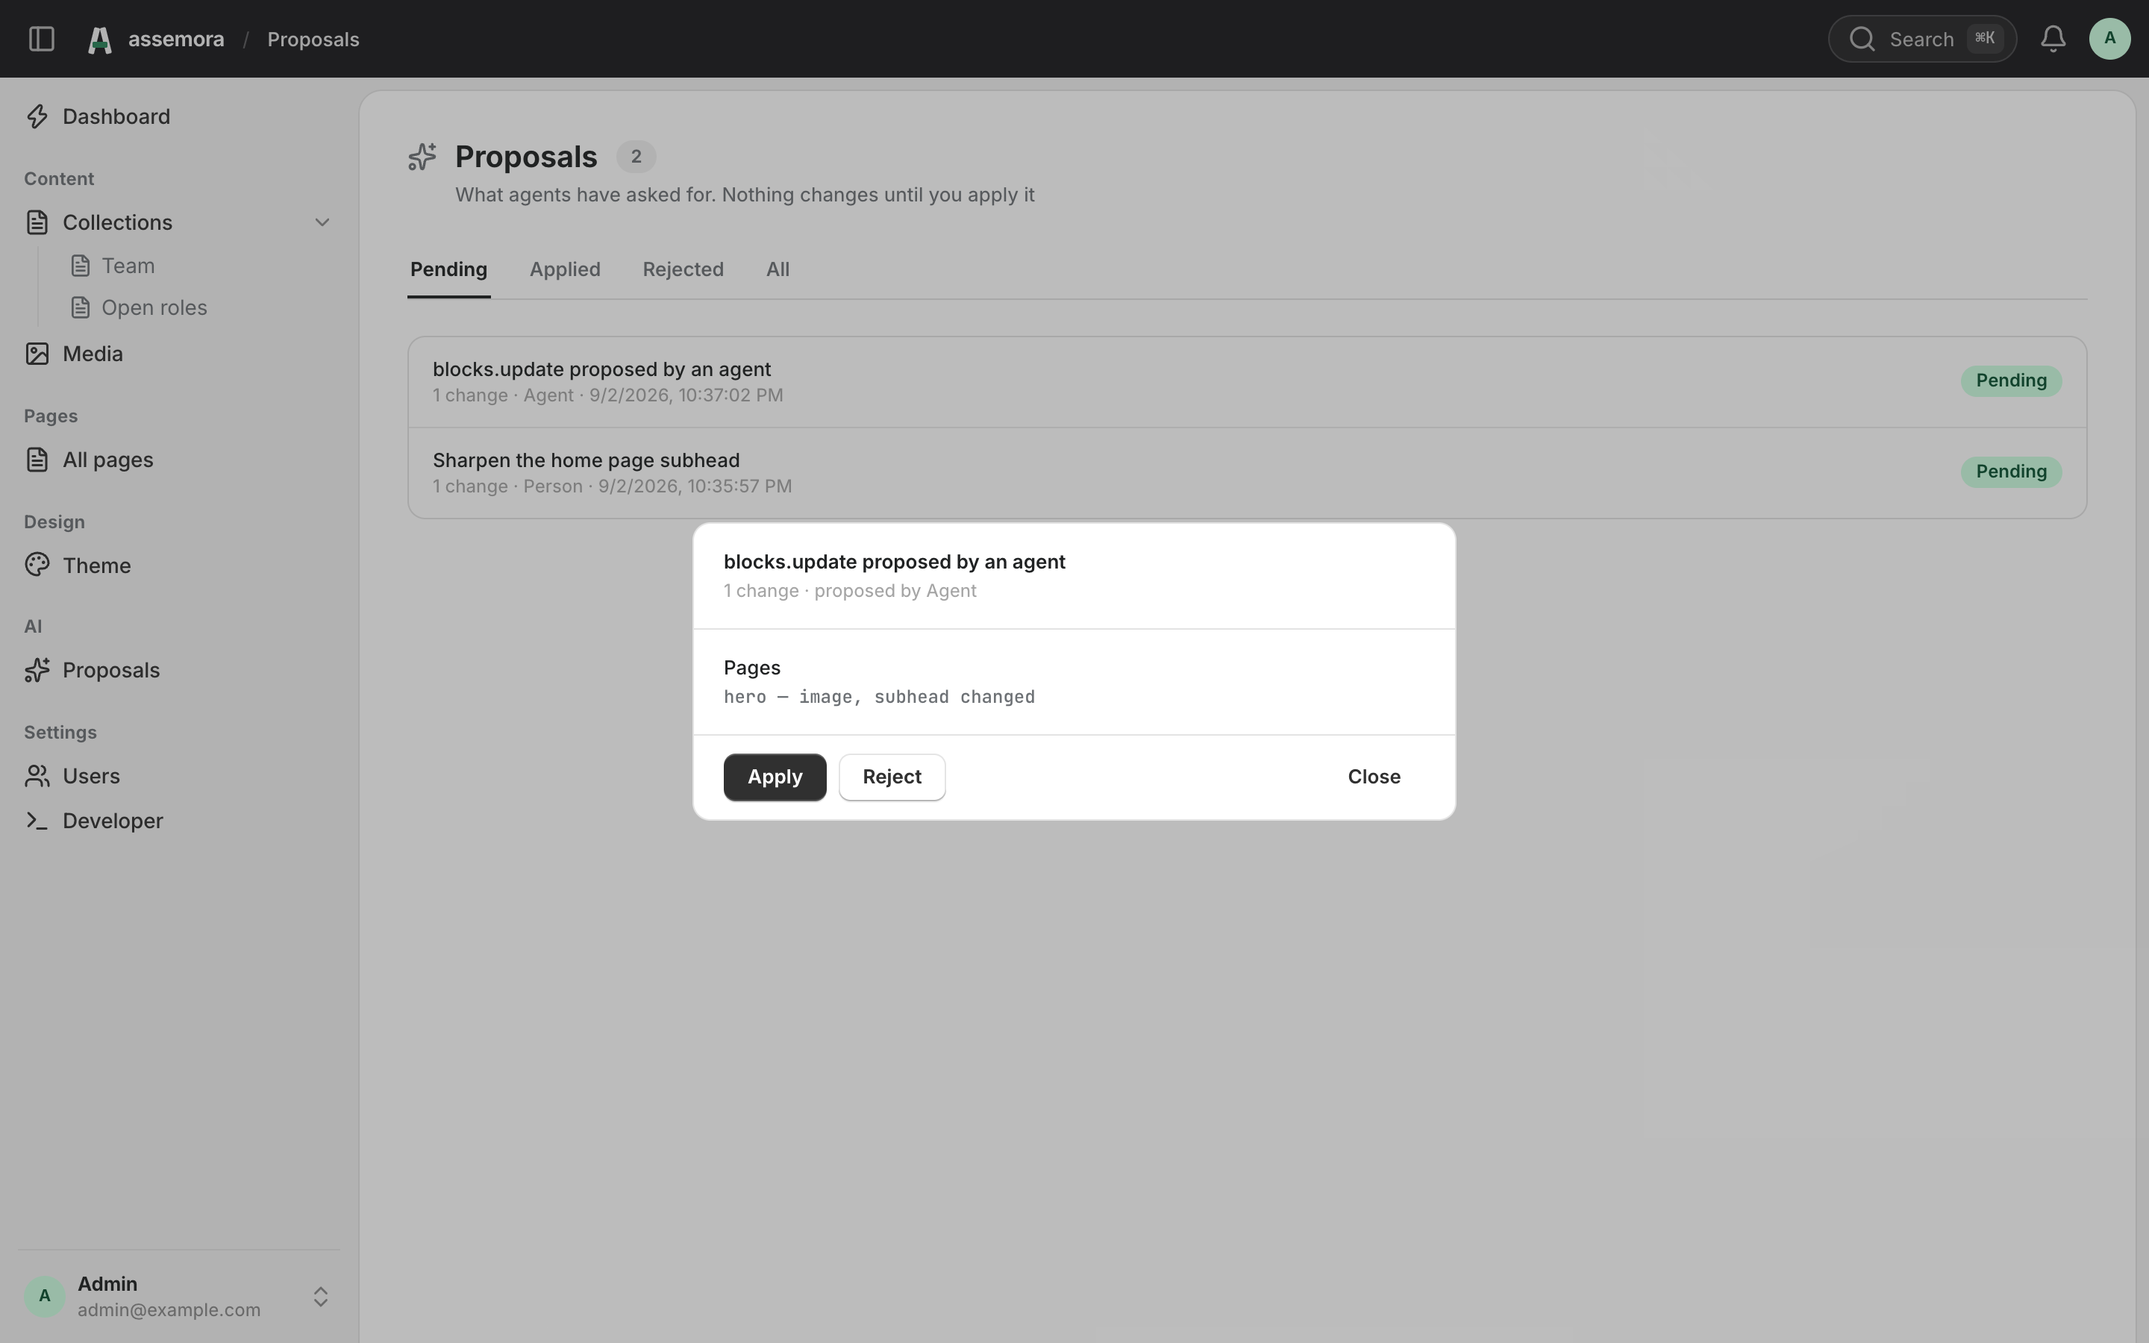
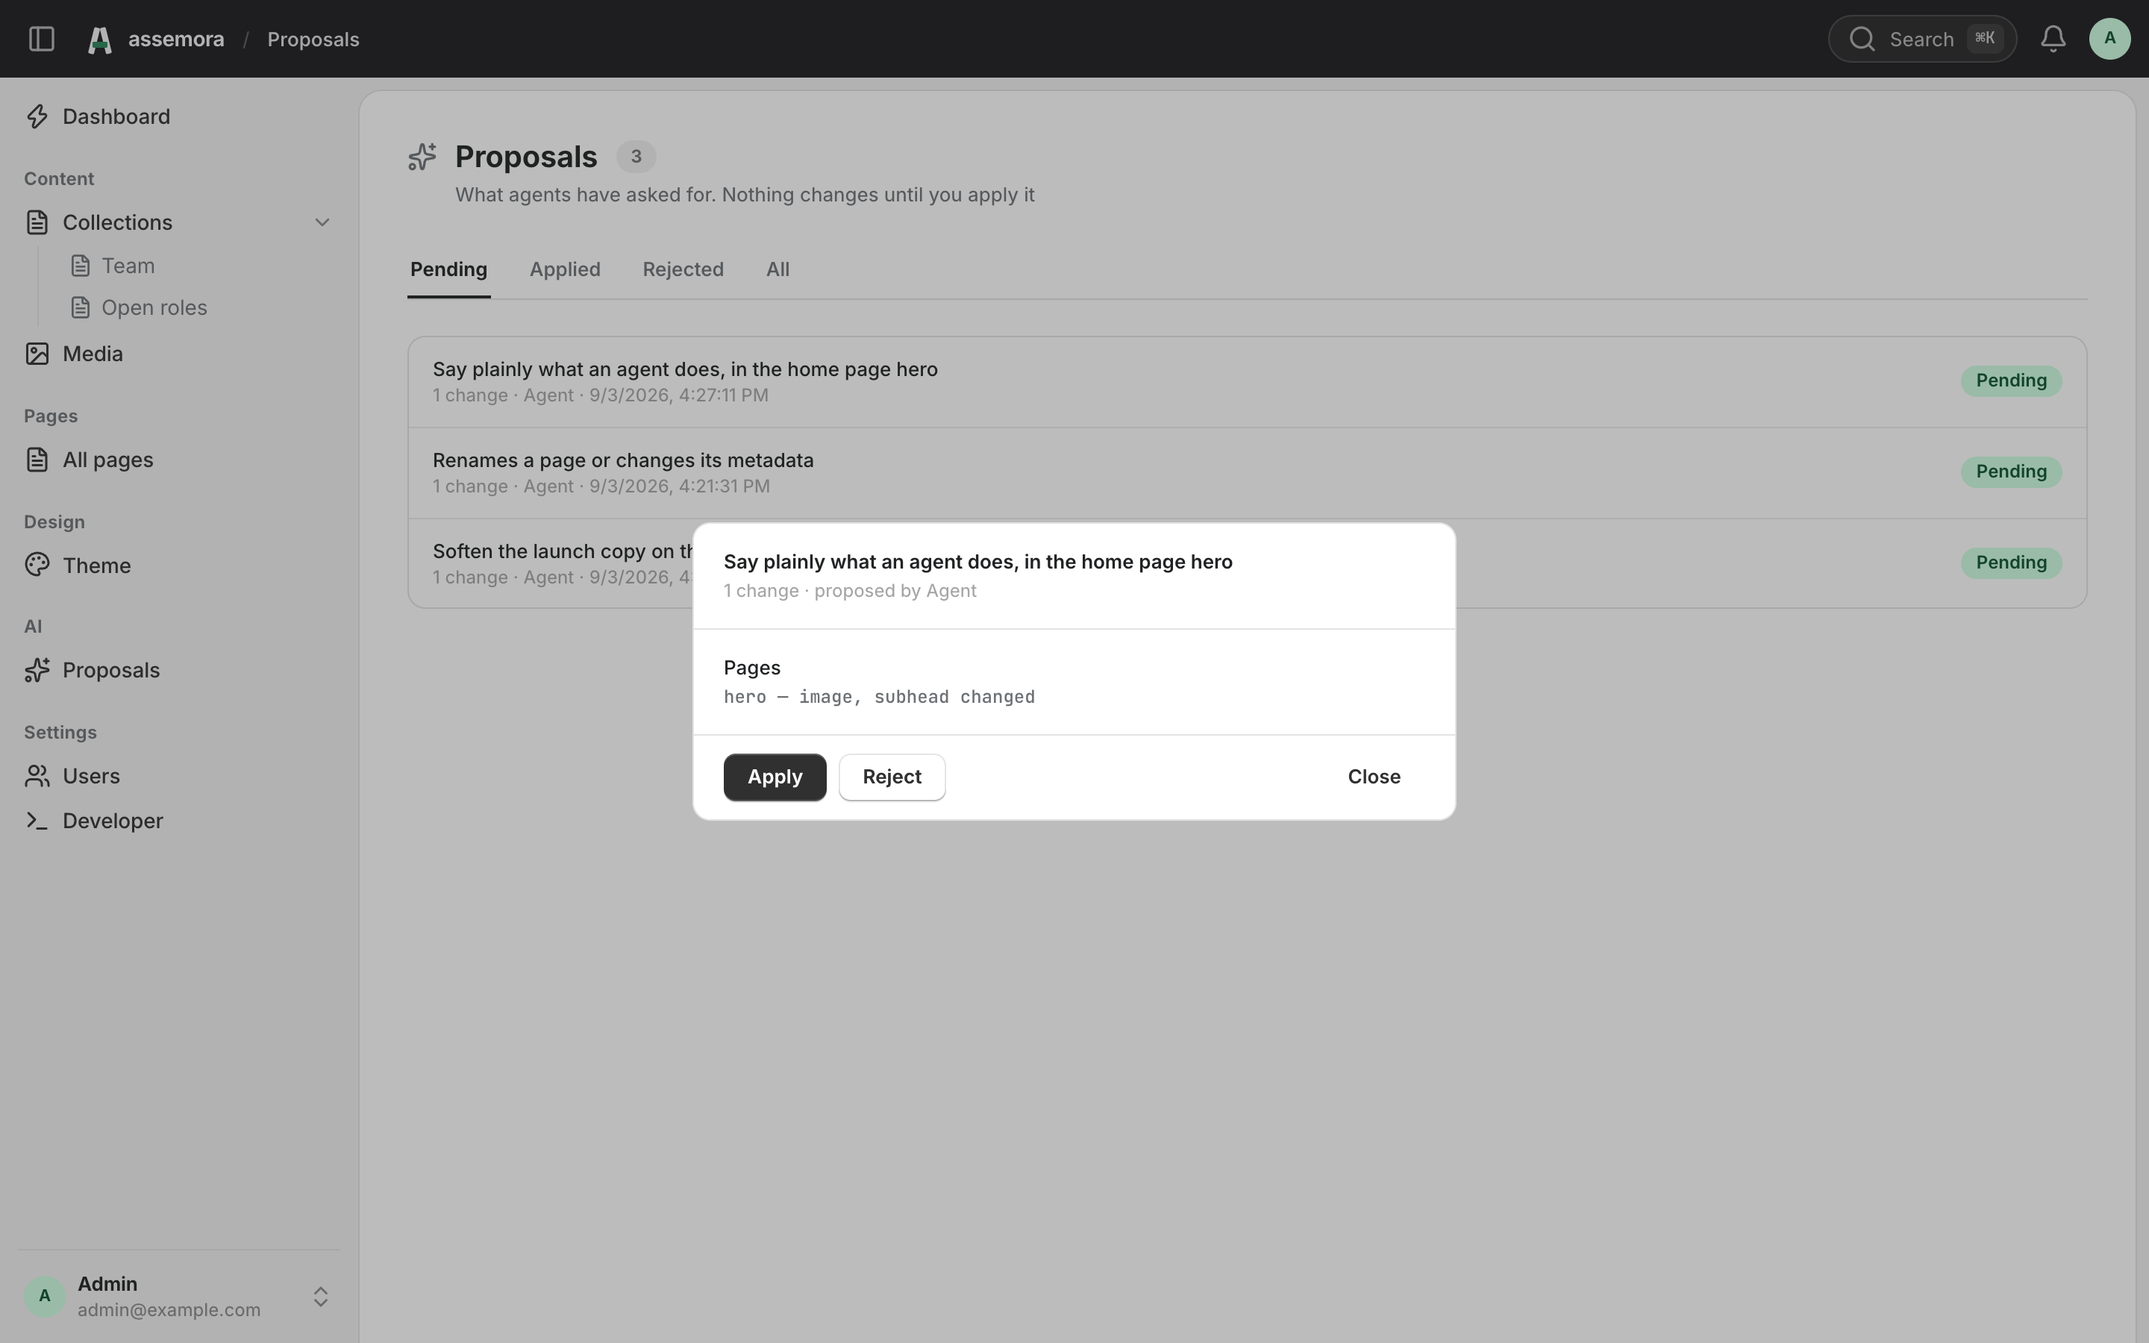
feat(mcp): an agent names its own proposal, and can put more than one thing in it
Every mutating tool was wrapped in `changesets.propose`, and that command
mutates — so it wrapped itself. An agent could therefore only ever propose one
command at a time, each under a title this package wrote for it, and the one
scenario SPEC.md §74 spells out ("add a block, then set its title" as a single
proposal) could not be reached in a single call. The Proposals screen showed rows
called `blocks.update proposed by an agent`, which told a person nothing the row
they sat on did not already say.

`proposable` is the declaration that fixes it. `changesets.propose` and
`changesets.reject` say `false`: the first would wrap itself, and the second would
need a proposal approved before a proposal could be refused. It is a declaration
on the command rather than a list of names in `@assemora/mcp`, for the reason
`reachableFrom` is — a package that generates a tool for every command must not
also keep an opinion about which commands are special (ADR-0020).

So an agent composes its own: several commands, previewed together, under a name
it chose. Nothing is weakened by that, and this is the part worth being sure of —
`changesets.apply` is *not* exempt, so production state still changes when a
person applies and not before (SPEC.md §75).

The convenience path — calling a mutating tool directly — is now titled with what
the command says it does, from its own `description`. A sentence somebody wrote
about the act, rather than the act's name and a suffix.
[…]

diff --git a/tests/integration/mcp.test.ts b/tests/integration/mcp.test.ts
@@ -23,7 +23,7 @@ import {
   User,
   UserRole,
 } from '@assemora/auth'
-import { changeSets } from '@assemora/change-sets'
+import { ChangeSet, changeSets } from '@assemora/change-sets'
 import {
   clearRestorers,
   createApplication,
@@ -306,5 +306,82 @@ describe('and the guarantee all seven exist for (SPEC.md §75)', () => {
     const written = await AuditLog.where('action', 'entries.update').firstOrFail()
 
     expect(written).toMatchObject({ actorType: 'user', source: 'studio' })
+  })
+})
+
+/**
+ * An agent naming its own proposal (SPEC.md §74).
+ *
+ * §74 spells out one scenario — "add a block, then set its title" as a single
+ * proposal — and it was unreachable. Every mutating tool was wrapped in
+ * `changesets.propose`, and that command mutates, so it wrapped itself: an agent could
+ * only ever propose one command at a time, each under a title this package wrote.
+ * The Proposals screen showed rows called `blocks.update proposed by an agent`, which
+ * told a person nothing the row did not already say.
+ */
+describe('a proposal an agent composed itself', () => {
+  it('takes several commands and the agent’s own words', async () => {
+    const first = await Article.create({ title: 'One', internal: null })
+    const second = await Article.create({ title: 'Two', internal: null })
+
+    const answered = await call('assemora.changesets.propose', {
+      title: 'Rename both articles for the launch',
+      commands: [
+        {
+          command: 'entries.update',
+          input: { resource: 'articles', id: first.id, data: { title: 'First' } },
+        },
+        {
+          command: 'entries.update',
+          input: { resource: 'articles', id: second.id, data: { title: 'Second' } },
+        },
+      ],
+    })
+
+    expect(answered.failed).toBe(false)
+    expect(answered.body).toMatchObject({ status: 'pending' })
+
+    const stored = await ChangeSet.findOrFail(answered.body.id)
+
+    expect(stored.title).toBe('Rename both articles for the launch')
+
+    // Still a proposal: two commands change nothing until a person applies them.
+    expect((await Article.findOrFail(first.id)).title).toBe('One')
+    expect((await Article.findOrFail(second.id)).title).toBe('Two')
+  })
+
+  it('is not itself wrapped in a second proposal', async () => {
+    const article = await Article.create({ title: 'Before', internal: null })
+
+    const answered = await call('assemora.changesets.propose', {
+      title: 'One change, named',
+      commands: [
+        {
+          command: 'entries.update',
+          input: { resource: 'articles', id: article.id, data: { title: 'After' } },
+        },
+      ],
+    })
+
+    // Wrapped, this would be a proposal *of* a proposal: the stored title would be
+    // the sentence about `changesets.propose`, and the agent's own would be buried one
+    // level down inside the commands, where nobody reads it.
+    expect((await ChangeSet.findOrFail(answered.body.id)).title).toBe('One change, named')
+  })
+
+  it('titles a convenience call with what the command says it does', async () => {
+    const article = await Article.create({ title: 'Before', internal: null })
+
+    const answered = await call('assemora.entries.update', {
+      resource: 'articles',
+      id: article.id,
+      data: { title: 'After' },
+    })
+
+    // A sentence somebody wrote about the command, rather than its name and a suffix.
+    const stored = await ChangeSet.findOrFail(answered.body.id)
+
+    expect(stored.title).not.toContain('proposed by an agent')
+    expect(stored.title).toBeTruthy()
   })
 })

diff --git a/packages/core/src/commands.ts b/packages/core/src/commands.ts
@@ -138,6 +138,15 @@ export type CommandDefinition<S extends Shape, R> = {
    * of them. Such a command says `'its own route'`, and the generators skip it.
    */
   readonly reachableFrom: CommandReach
+  /**
+   * Whether a proposal may be made of this command (SPEC.md §75, ADR-0019).
+   *
+   * An agent's mutation is a proposal by default, which means every mutating command
+   * is wrapped in `changesets.propose`. That one and `changesets.reject` cannot be:
+   * the first would wrap itself, and the second would need a proposal approved before
+   * a proposal could be refused.
+   */
+  readonly proposable: boolean
   handle(input: InferShape<S>, context: CommandContext): Promise<R>
 }
 
@@ -149,6 +158,7 @@ export type AnyCommand = {
   readonly subject: string | undefined
   readonly previewable: boolean
   readonly reachableFrom: CommandReach
+  readonly proposable: boolean
   handle(input: never, context: CommandContext): Promise<unknown>
 }
 
@@ -205,6 +215,11 @@ export const command = <S extends Shape, R>(
      * authorized and a route written for it is what makes it safe.
      */
     readonly reachableFrom?: CommandReach
+    /**
+     * Defaults to true. Say `false` when this command is how a proposal is made or
+     * refused, so that making a proposal of it would be circular.
+     */
+    readonly proposable?: boolean
     handle(input: InferShape<S>, context: CommandContext): Promise<R>
   },
 ): CommandDefinition<S, R> => ({
@@ -214,6 +229,7 @@ export const command = <S extends Shape, R>(
   subject: definition.subject,
   previewable: definition.previewable ?? true,
   reachableFrom: definition.reachableFrom ?? 'anywhere',
+  proposable: definition.proposable ?? true,
   handle: definition.handle,
 })
 
@@ -626,6 +642,8 @@ export const createCommandBus = (options: CommandBusOptions): CommandBus => {
         ...(definition.reachableFrom === 'anywhere'
           ? {}
           : { reachableFrom: definition.reachableFrom }),
+        // Carried only when it restricts something, like the field above it.
+        ...(definition.proposable ? {} : { proposable: false }),
       })
     },
 

diff --git a/packages/change-sets/src/commands.ts b/packages/change-sets/src/commands.ts
@@ -85,6 +85,20 @@ const changesOf = (previews: readonly Preview[]): ProposedChange[] =>
 
 export const ProposeChangeSet = command('changesets.propose', {
   description: 'Previews a sequence of commands and stores it for a person to approve',
+  /**
+   * A proposal of a proposal is not a thing (SPEC.md §74, §75).
+   *
+   * Every mutating tool an agent calls is wrapped in this command, and this command
+   * mutates — so it used to wrap itself, and the one scenario §74 spells out ("add a
+   * block, then set its title" as one proposal) could not be reached in a single call.
+   * An agent could only ever propose one command at a time, each under a title this
+   * package wrote for it.
+   *
+   * Exempt, an agent composes its own: several commands, previewed together, under a
+   * name it chose. Nothing is weakened by that — the proposal still changes nothing
+   * until a person applies it, which is the whole of the guarantee.
+   */
+  proposable: false,
   input: {
     title: string().min(1),
     commands: array(json<{ readonly command: string; readonly input: unknown }>()).min(1),
@@ -201,6 +215,14 @@ export const ApplyChangeSet = command('changesets.apply', {
 
 export const RejectChangeSet = command('changesets.reject', {
   description: 'Closes a change set without running any of it',
+  /**
+   * Refusing is not a change to approve.
+   *
+   * Wrapped, this would be a proposal somebody has to apply before another proposal
+   * could be refused — two decisions where the second one is "no". Rejecting runs none
+   * of what was proposed, so there is nothing for a person to preview.
+   */
+  proposable: false,
   input: { id: uuid(), reason: string().optional() },
   handle: async ({ id, reason }, context) => {
     const proposal = await openOrFail(id)

diff --git a/packages/mcp/src/server.ts b/packages/mcp/src/server.ts
@@ -117,11 +117,26 @@ export const createMcpServer = (options: McpServerOptions): Server => {
 
       if (mutations === 'direct') return answer(await options.commands.execute(name, input))
 
+      // The two commands that *are* the proposal mechanism run as themselves: one
+      // would wrap itself, and the other would need a proposal approved before a
+      // proposal could be refused. It is also how an agent composes a proposal of its
+      // own — several commands, under a name it chose — which is the scenario SPEC.md
+      // §74 spells out and which was unreachable while this wrapped everything.
+      //
+      // Nothing is weakened. `changesets.apply` is still wrapped, so production state
+      // changes when a person applies and not before (SPEC.md §75).
+      if (!tool.proposable) return answer(await options.commands.execute(name, input))
+
       // A mutation is a proposal. Production state does not change before somebody
       // applies it (SPEC.md §75).
       return answer(
         await options.commands.execute('changesets.propose', {
-          title: `${name} proposed by an agent`,
+          // The command's own description, which is a sentence somebody wrote about
+          // what it does, rather than its name and a suffix. This title is read on the
+          // Proposals screen, where `blocks.update proposed by an agent` told a person
+          // nothing they could not see from the row it sat on. An agent that wants to
+          // say more calls `changesets.propose` and titles it itself.
+          title: tool.description,
           commands: [{ command: name, input }],
         }),
       )

diff --git a/packages/mcp/src/tools.ts b/packages/mcp/src/tools.ts
@@ -29,6 +29,15 @@ export type ToolDescriptor = {
   readonly inputSchema: { readonly type: 'object' } & JsonSchema
   /** Whether calling it would change anything, which decides how it is handled. */
   readonly mutates: boolean
+  /**
+   * Whether a mutation of this tool becomes a proposal (SPEC.md §75, ADR-0019).
+   *
+   * True for every mutating tool but the two that *are* the proposal mechanism. It is
+   * read off the command's own declaration rather than decided here: a package that
+   * generates a tool for every command must not also keep a list of the special ones
+   * (ADR-0020).
+   */
+  readonly proposable: boolean
 }
 
 export const TOOL_PREFIX = 'assemora.'
@@ -50,6 +59,7 @@ type Described = {
   readonly description?: string
   readonly input?: unknown
   readonly reachableFrom?: CommandReach
+  readonly proposable?: boolean
 }
 
 /**
@@ -80,6 +90,9 @@ export const toolsOf = (registry: SchemaRegistry): ToolDescriptor[] => {
     description: entry.description ?? entry.name,
     inputSchema: objectSchema(entry.input),
     mutates,
+    // Absent means yes, the way the descriptor carries it: the field is written only
+    // when it restricts something.
+    proposable: mutates && entry.proposable !== false,
   })
 
   return [

diff --git a/packages/core/src/registry.ts b/packages/core/src/registry.ts
@@ -42,6 +42,18 @@ export type CommandDescriptor = RegistryEntry & {
    * registry does not carry is one no generator can honour (ADR-0002).
    */
   readonly reachableFrom?: CommandReach
+  /**
+   * Absent when a proposal may be made of this command, which is nearly all of them.
+   *
+   * `false` says the command *is* the proposal mechanism, so wrapping it in one would
+   * be circular: a proposal to propose is a row nobody can act on, and a proposal to
+   * reject a proposal is one somebody has to approve before the first can be refused.
+   *
+   * It is a declaration rather than a list of names in `@assemora/mcp`, for the reason
+   * `reachableFrom` is: a package that generates a tool for every command must not also
+   * keep an opinion about which commands are special (ADR-0020).
+   */
+  readonly proposable?: boolean
 }
 
 /**

diff --git a/docs/media/README.md b/docs/media/README.md
@@ -42,7 +42,12 @@ pictures before:
 | `studio-sign-in.png` | `/studio`, signed out |
 | `studio-theme.png` | `/studio/design` |
 
-The proposal in `studio-proposals.png` is a real one, made over MCP rather than staged.
+The proposal in `studio-proposals.png` is a real one, made over MCP rather than staged,
+and it is titled in the agent's own words because an agent composes its own proposal:
+`changesets.propose` takes a title and a list of commands, and it is the one mutating
+tool that is not itself wrapped in a proposal. A tool called directly is titled with what
+that command says it does.
+
 An agent identity is created through the Command Bus like anything else, and the token
 it answers with is what the JSON-RPC endpoint authenticates:
 
@@ -51,10 +56,12 @@ it answers with is what the JSON-RPC endpoint authenticates:
 POST /api/commands/auth.agents.create
      { "name": "Content agent", "permissions": ["pages.read", "blocks.update", "changesets.propose"] }
 
-# then, as that agent
+# then, as that agent — naming the proposal itself
 POST /api/mcp   Authorization: Bearer <token>
      { "jsonrpc": "2.0", "id": 1, "method": "tools/call",
-       "params": { "name": "assemora.blocks.update", "arguments": { … } } }
+       "params": { "name": "assemora.changesets.propose", "arguments": {
+         "title": "Say plainly what an agent does, in the home page hero",
+         "commands": [{ "command": "blocks.update", "input": { … } }] } } }
 ```
 
 The tool answers `{ "status": "pending", "changes": [...] }` and writes nothing, which

diff --git a/docs/guide/10-agents-and-mcp.md b/docs/guide/10-agents-and-mcp.md
@@ -53,6 +53,26 @@ flatly, and a flag the caller sets would not be a gate.
 `assemora()` — is the deliberate opt-out, and it belongs in the project's own source
 where it can be seen.
 
+That proposal is titled with what the command says it does — the sentence in its own
+`description`, which is what an editor reads on the Proposals screen.
+
+An agent with more to say composes its own. `assemora.changesets.propose` takes a title
+and a list of commands, and is the one mutating tool that is not itself wrapped in a
+proposal:
+
+```text
+assemora.changesets.propose {
+  title: 'Say plainly what an agent does, in the home page hero',
+  commands: [{ command: 'blocks.update', input: { … } }],
+}
+```
+
+Several commands in one proposal are previewed together and applied together, which is
+the scenario SPEC.md §74 describes: "add a block, then set its title" is one decision for
+a person to make, not two. `changesets.reject` is exempt for the same reason — refusing
+is not a change to approve — while `changesets.apply` is *not*, so an agent still cannot
+apply anything.
+
 ## Dry run is the real pipeline, rolled back
 
 A dry run is the command pipeline with the transaction undone. There is no second code

diff --git a/README.md b/README.md
@@ -95,7 +95,7 @@ Every number and every card on the first screen is read from the Schema Registry
 `resource(Dish, …)` to the application and it appears here, in the sidebar, in the
 command palette and in the API Explorer, with no edit to Studio.
 
-![The Proposals screen in Studio: a change set proposed by an agent, opened to show one line per change, with Apply and Reject](docs/media/studio-proposals.png)
+![The Proposals screen in Studio: a change set an agent proposed under its own title, opened to show one line per change, with Apply and Reject](docs/media/studio-proposals.png)
 
 An agent proposes and a person decides. That row was made over MCP, by a tool call that
 wrote nothing: the line under it is read off a diff produced by running the command for
